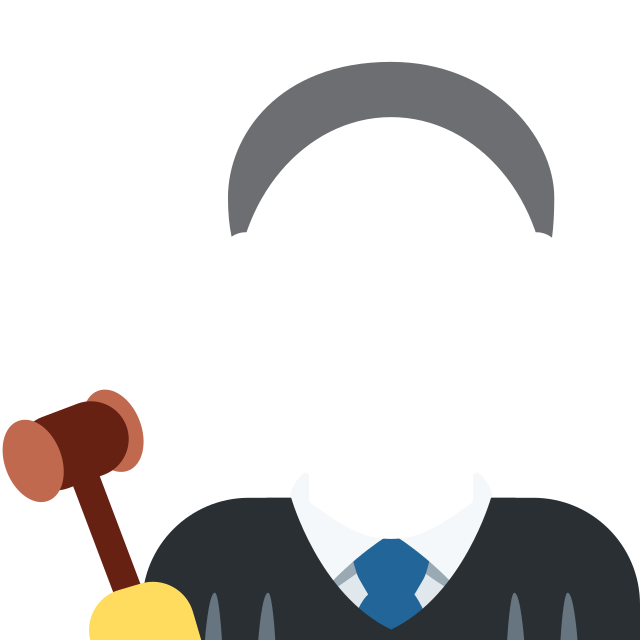
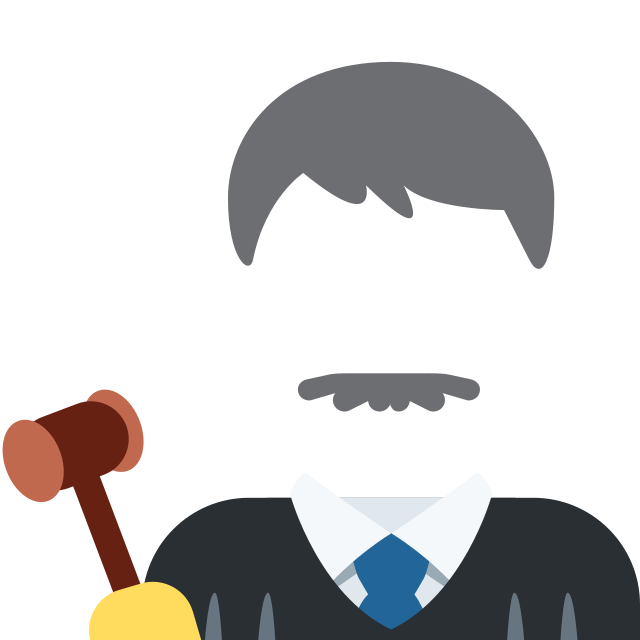
Make costume face removal surgical, keep hair without hats

Changed region(s): [[0.3438, 0.1562, 0.875, 0.4375], [0.4688, 0.5625, 0.75, 0.6562], [0.5312, 0.75, 0.6875, 0.8438]]

diff --git a/src/modules/looks/twemoji-overlays.test.js b/src/modules/looks/twemoji-overlays.test.js
@@ -56,11 +56,17 @@ describe('costume covers punch out the whole face, not only the eyes', () => {
         }
     });
 
-    it('leaves the face opening transparent and the uniform opaque', async () => {
+    it('leaves a face opening transparent and the uniform opaque', async () => {
         for (const slug of COSTUME_SLUGS) {
             const buf = await loadPng(slug);
-            const hole = await probePixel(buf, 0.5, 0.45);
-            expect(hole.a, `${slug} face opening`).toBeLessThanOrEqual(24);
+            // The opening sits somewhere on the centre line; the exact band
+            // depends on how low the headwear reaches.
+            let opened = false;
+            for (let fy = 0.35; fy <= 0.75; fy += 0.05) {
+                const px = await probePixel(buf, 0.5, fy);
+                if (px.a <= 24) { opened = true; break; }
+            }
+            expect(opened, `${slug} face opening`).toBe(true);
             const body = await probePixel(buf, 0.5, 0.95);
             expect(body.a, `${slug} uniform body`).toBeGreaterThanOrEqual(220);
         }
